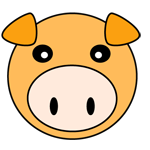
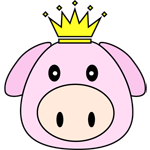
because pigking is cooler

diff --git a/css/mushrooms.min.css b/css/mushrooms.min.css
@@ -1,1 +1,1 @@
-@import url(http://fonts.googleapis.com/css?family=Lato:300,400,700);*,:after,:before{-webkit-box-sizing:border-box;-moz-box-sizing:border-box;box-sizing:border-box}.clearfix:after,.clearfix:before{content:" ";display:table}.clearfix:after{clear:both}body,html{font-size:100%;margin:0;padding:0}body{background:#f57b00;color:#fff;font-family:Lato,Calibri,Arial,sans-serif;margin:0 auto;padding:0}a{color:#f0f0f0;text-decoration:none}.container{width:70%;margin:0 auto}.container>header{width:100%;margin:0 auto;padding:46px 30px 30px}.container>header h1{font-size:34px;line-height:1.3;float:left;font-weight:400;margin:0}.container>header span{display:block;font-weight:700;text-transform:uppercase;letter-spacing:8px;padding:0 0 10px 2px}.container>header nav{float:right}.container>header nav a{display:block;float:left;position:relative;width:40px;height:40px;background:#fff;-webkit-border-radius:50%;-moz-border-radius:50%;border-radius:50%;color:transparent;border:4px solid #ffc737;margin:0 2px}.container>header nav a:after{content:attr(data-info);color:#fff;position:absolute;width:600%;top:120%;text-align:right;right:0;opacity:0;pointer-events:none}.container>header nav a:hover{background:#ebaa03}.container>header nav a:hover:before{color:#fff}.container>header nav a:hover:after{opacity:1}.icon-github:before,.icon-home:before{font-family:fontawesome;position:absolute;top:0;width:100%;height:100%;speak:none;font-style:normal;font-weight:400;line-height:2;text-align:center;color:#ebaa03;-webkit-font-smoothing:antialiased}.icon-home:before{content:"\f015"}.icon-github:before{content:"\f113"}.main-content{background:#ffc200;-webkit-border-radius:10px;-moz-border-radius:10px;border-radius:10px;margin:0 auto 30px}.panel-container{text-align:center;padding:5%}.panel-main{margin-bottom:10px}.title{font-size:48px;letter-spacing:3px;margin:0 0 16px}.subtitle{font-size:21px;letter-spacing:1px;color:rgba(255,255,255,.9);margin:0 0 24px}.sprite img{margin:30px 0}.btn-play{display:inline-block;font-size:15px;font-weight:400;text-align:center;color:#fff;background-color:#ff8c22;border:1px solid #e68023;-webkit-border-radius:5px;-moz-border-radius:5px;border-radius:5px;cursor:pointer;padding:10px 70px}.btn-play:hover{color:#fff;background-color:#ffad1b;outline:0 none;border-color:#ffa300}.panel-game{position:relative;width:60%;margin:0 auto}#replay{float:left}.icon-repeat{display:block;float:left;position:relative;width:40px;height:40px;background:#ffcb7c;-webkit-border-radius:50%;-moz-border-radius:50%;border-radius:50%;color:transparent;border:4px solid #ff9737;cursor:pointer}.icon-repeat:before{font-family:fontawesome;position:absolute;top:0;left:0;width:100%;height:100%;speak:none;font-style:normal;font-weight:400;line-height:32px;text-align:center;color:#ff7406;-webkit-font-smoothing:antialiased;content:"\f01e"}.icon-repeat:after{content:attr(data-info);color:#444;position:absolute;width:90px;top:5px;text-align:right;left:25px;opacity:0;pointer-events:none}.icon-repeat:hover{background:#ff7406}.icon-repeat:hover:before{color:#ffcb7c}.icon-repeat:hover:after{opacity:1}#timer{float:left;border:2px solid #f30;-webkit-border-radius:10px;-moz-border-radius:10px;border-radius:10px;background:#fff6c5;color:#000;padding:5px}#timer-value{font-weight:700;-webkit-animation-duration:1s;-webkit-animation-delay:0;-webkit-animation-iteration-count:infinite;-moz-animation-duration:1s;-moz-animation-delay:0;-moz-animation-iteration-count:infinite;animation-duration:1s;animation-delay:0;animation-iteration-count:infinite}#score{float:right;border:2px solid #f30;-webkit-border-radius:10px;-moz-border-radius:10px;border-radius:10px;background:#fff6c5;color:#000;font-weight:700;padding:5px}#score img{height:30px;width:30px;vertical-align:middle}.gameboard{position:relative}.game-grid{list-style:none;position:relative;background:#ffe792;border:1px solid #b32d2d;padding:0}.game-grid li{position:relative;float:left;height:100%;width:25%;width:-webkit-calc(100% / 4);width:calc(100% / 4);color:#333;cursor:pointer;border:1px solid #b32d2d}.game-grid li .image-holder,.game-grid li .shroom-holder{position:relative;height:100%;width:100%;overflow:hidden}.game-grid li .image-holder img.new-shroom{display:block;position:absolute;width:100%;max-width:100%;height:100%;cursor:pointer}.game-grid li img.popup{height:30px;width:30px;display:inline;vertical-align:middle}.game-grid li .score-popup{font-weight:700;font-size:20px;color:#00e01b;position:absolute;left:25%;width:50%;background:#b7ffad;border:2px solid;-webkit-border-radius:5px;-moz-border-radius:5px;border-radius:5px;padding:2px}.game-grid li .score-popup.penalty{color:red;background:#ffadb0}.game-grid li .content{height:100%;text-align:center;vertical-align:middle;font-size:5vw}.game-grid li .content.last{top:25%;position:relative;font-size:0}.game-grid li .content img{width:100%}.game-grid li .content img.small{width:50%}.end-mushroom img,.end-mushroom-poison img{-moz-animation-iteration-count:infinite;-webkit-animation-iteration-count:infinite;animation-iteration-count:infinite}@media only screen and (min-device-width:320px) and (max-device-width:540px){.container{width:90%}.panel-game{width:100%}.game-grid li{width:25%;width:-webkit-calc(100% / 4);width:calc(100% / 4)}.game-grid li .content{font-size:8vw}.game-grid li .score-popup{font-weight:700;font-size:15px;color:#0f0;position:absolute;left:15%;width:70%;z-index:10}.game-grid li img.popup{height:18px;width:18px}.game-grid li .content.last{top:25%}}
+@import url(http://fonts.googleapis.com/css?family=Lato:300,400,700);*,:after,:before{-webkit-box-sizing:border-box;-moz-box-sizing:border-box;box-sizing:border-box}.clearfix:before,.clearfix:after{content:" ";display:table}.clearfix:after{clear:both}body,html{font-size:100%;margin:0;padding:0}body{background:#f57b00;color:#fff;font-family:Lato,Calibri,Arial,sans-serif;margin:0 auto;padding:0}a{color:#f0f0f0;text-decoration:none}.container{width:70%;margin:0 auto}.container>header{width:100%;margin:0 auto;padding:46px 30px 30px}.container>header h1{font-size:34px;line-height:1.3;float:left;font-weight:400;margin:0}.container>header span{display:block;font-weight:700;text-transform:uppercase;letter-spacing:8px;padding:0 0 10px 2px}.container>header nav{float:right}.container>header nav a{display:block;float:left;position:relative;width:40px;height:40px;background:#fff;-webkit-border-radius:50%;-moz-border-radius:50%;border-radius:50%;color:transparent;border:4px solid #ffc737;margin:0 2px}.container>header nav a:after{content:attr(data-info);color:#fff;position:absolute;width:600%;top:120%;text-align:right;right:0;opacity:0;pointer-events:none}.container>header nav a:hover{background:#ebaa03}.container>header nav a:hover:before{color:#fff}.container>header nav a:hover:after{opacity:1}.icon-home:before,.icon-github:before{font-family:fontawesome;position:absolute;top:0;width:100%;height:100%;speak:none;font-style:normal;font-weight:400;line-height:2;text-align:center;color:#ebaa03;-webkit-font-smoothing:antialiased}.icon-home:before{content:"\f015"}.icon-github:before{content:"\f113"}.main-content{background:#ffc200;-webkit-border-radius:10px;-moz-border-radius:10px;border-radius:10px;margin:0 auto 30px}.panel-container{text-align:center;padding:5%}.panel-main{margin-bottom:10px}.title{font-size:48px;letter-spacing:3px;margin:0 0 16px}.subtitle{font-size:21px;letter-spacing:1px;color:rgba(255,255,255,0.9);margin:0 0 24px}.sprite img{margin:30px 0}.btn-play{display:inline-block;font-size:15px;font-weight:400;text-align:center;color:#fff;background-color:#ff8c22;border:1px solid #e68023;-webkit-border-radius:5px;-moz-border-radius:5px;border-radius:5px;cursor:pointer;padding:10px 70px}.btn-play:hover{color:#fff;background-color:#ffad1b;outline:0 none;border-color:#ffa300}.panel-game{position:relative;width:60%;margin:0 auto}#replay{float:left}.icon-repeat{display:block;float:left;position:relative;width:40px;height:40px;background:#ffcb7c;-webkit-border-radius:50%;-moz-border-radius:50%;border-radius:50%;color:transparent;border:4px solid #ff9737;cursor:pointer}.icon-repeat:before{font-family:fontawesome;position:absolute;top:0;left:0;width:100%;height:100%;speak:none;font-style:normal;font-weight:400;line-height:32px;text-align:center;color:#ff7406;-webkit-font-smoothing:antialiased;content:"\f01e"}.icon-repeat:after{content:attr(data-info);color:#444;position:absolute;width:90px;top:5px;text-align:right;left:25px;opacity:0;pointer-events:none}.icon-repeat:hover{background:#ff7406}.icon-repeat:hover:before{color:#ffcb7c}.icon-repeat:hover:after{opacity:1}#timer{float:left;border:2px solid #f30;-webkit-border-radius:10px;-moz-border-radius:10px;border-radius:10px;background:#fff6c5;color:#000;padding:5px}#timer-value{font-weight:700;-webkit-animation-duration:1s;-webkit-animation-delay:0;-webkit-animation-iteration-count:infinite;-moz-animation-duration:1s;-moz-animation-delay:0;-moz-animation-iteration-count:infinite;animation-duration:1s;animation-delay:0;animation-iteration-count:infinite}#score{float:right;border:2px solid #f30;-webkit-border-radius:10px;-moz-border-radius:10px;border-radius:10px;background:#fff6c5;color:#000;font-weight:700;padding:5px}#score img{height:30px;width:30px;vertical-align:middle}.gameboard{position:relative}.game-grid{list-style:none;position:relative;background:#ffe792;border:1px solid #b32d2d;padding:0}.game-grid li{position:relative;float:left;height:100%;width:25%;width:-webkit-calc(100% / 4);width:calc(100% / 4);color:#333;cursor:pointer;border:1px solid #b32d2d}.game-grid li .image-holder,.game-grid li .shroom-holder{position:relative;height:100%;width:100%;overflow:hidden}.game-grid li .image-holder img.new-shroom{display:block;position:absolute;width:100%;max-width:100%;height:100%;cursor:pointer}.game-grid li img.popup{height:30px;width:30px;display:inline;vertical-align:middle}.game-grid li .score-popup{font-weight:700;font-size:20px;color:#00e01b;position:absolute;left:25%;width:50%;background:#b7ffad;border:2px solid;-webkit-border-radius:5px;-moz-border-radius:5px;border-radius:5px;padding:2px}.game-grid li .score-popup.penalty{color:red;background:#ffadb0}.game-grid li .content{position:relative;height:100%;text-align:center;vertical-align:middle;font-size:5vw;z-index:1}.game-grid li .content.last{top:25%;position:relative;font-size:0}.game-grid li .content img{width:100%}.game-grid li .content img.small{width:50%}.end-mushroom img,.end-mushroom-poison img{-moz-animation-iteration-count:infinite;-webkit-animation-iteration-count:infinite;animation-iteration-count:infinite}@media only screen and (min-device-width:320px) and (max-device-width:540px){.container{width:90%}.panel-game{width:100%}.game-grid li{width:25%;width:-webkit-calc(100% / 4);width:calc(100% / 4)}.game-grid li .content{font-size:8vw}.game-grid li .score-popup{font-weight:700;font-size:15px;color:#0f0;position:absolute;left:15%;width:70%;z-index:10}.game-grid li img.popup{height:18px;width:18px}.game-grid li .content.last{top:25%}}

diff --git a/css/mushrooms.css b/css/mushrooms.css
@@ -361,10 +361,12 @@ a {
 }
 
 .game-grid li .content {
+    position: relative;
     height:100%;
     text-align:center;
     vertical-align:middle;
     font-size:5vw;
+    z-index: 1;
 }
 
 .game-grid li .content.last {
